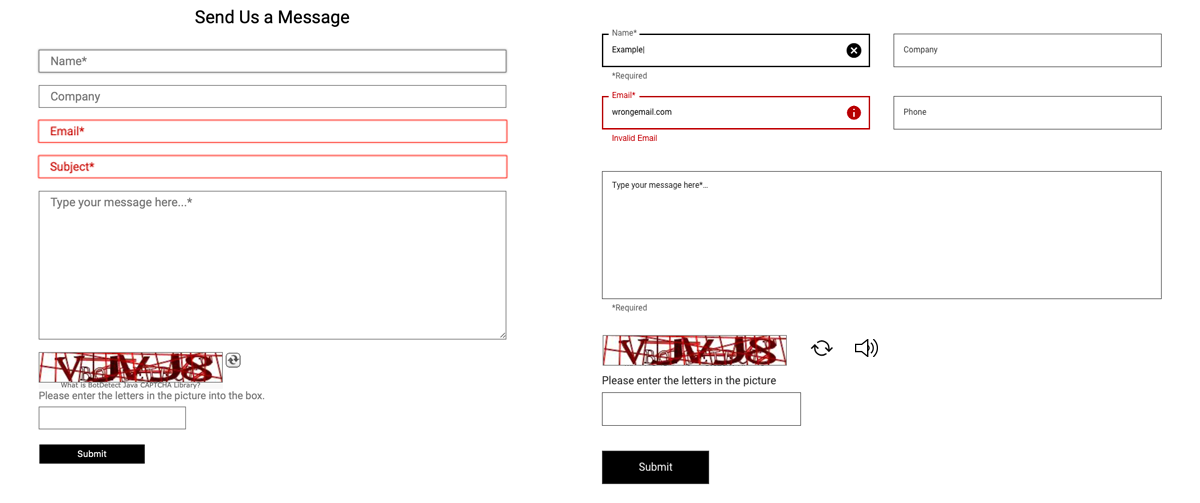
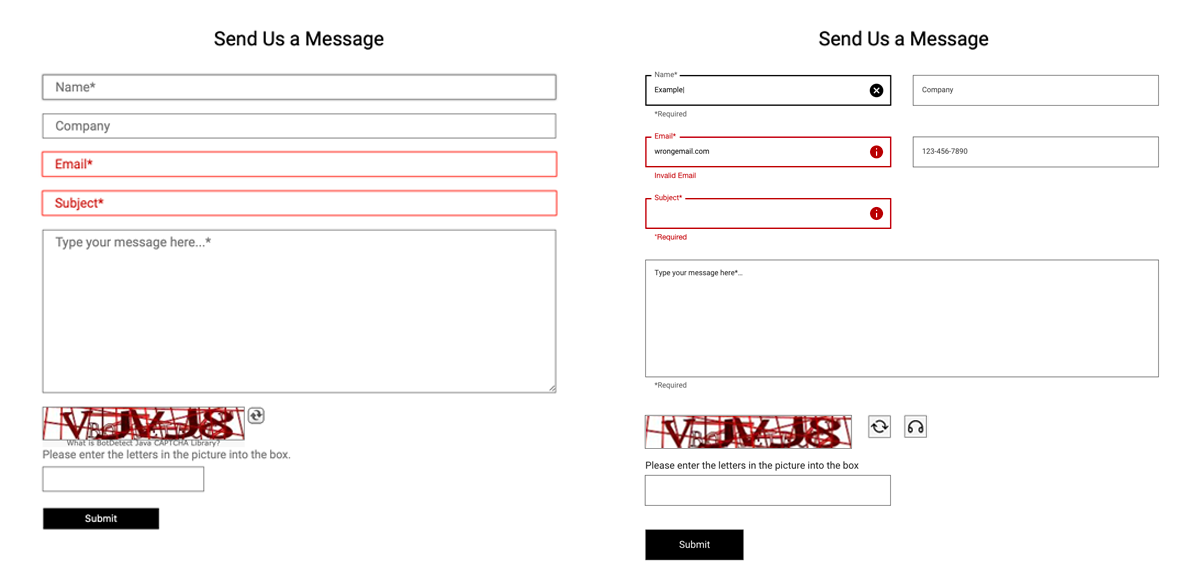
update20220702

diff --git a/schiller.html b/schiller.html
@@ -24,8 +24,8 @@
 			<div class="col-2">
 				<table>
 					<tr>
-					  <th>Role</th>
-					  <th>Tool</th>
+					  <th>Roles</th>
+					  <th>Tools</th>
 					  <th>Date</th>
 					</tr>
 					<tr>
@@ -39,6 +39,7 @@
 					  </tr>
 					  <tr>
 						<td>Videos</td>
+						<td>Adobe XD</td>
 					  </tr>
 					  <tr>
 						<td>UIUX</td>
@@ -54,32 +55,22 @@
 		</div>
 
 		<div class="text-container">
-			<p>Challenges & Goal</p>
-			<h3 style="padding-bottom: 50px; padding-top: 10px;">The existing company&apos; brand is outdated. Also, the website was not fully responsive. <br><br> The goal of the project is to build a differentiated brand and develope a stategic plan to market themselves to its high-net worth clients. Their clients are high-net worth individuals and design a fully responsive website that embrace the consistency of the new brand.</h3>
+			<p>Challenges &amp; Goal</p>
+			<h3 style="padding-bottom: 50px; padding-top: 10px;">The existing company&apos;s brand is outdated and lack of creativity, also the website was not fully responsive. Creativity is essential to standing out in a competitive market. <br><br> The goal of the project is to build a differentiated brand and maintain the brand consistency across marketing channels.</h3>
 		</div>
 
 		<div class="img-container">
-			<h4>Before &#8595;</h4>
-			<div class="fade-in"><img src="img/schiller-before.png" alt="Schiller DuCanto & Fleck" style="width:100%; height:auto;"></div>
+			<h4>Brand Identity Comparison</h4>
+			<div class="fade-in"><img src="img/schiller-comparison-identity.png" alt="Schiller Brochures" style="width:100%; height:auto;"></div>
 		</div>
 
 		<div class="text-container">
 			<p>Solution</p>
-			<h3 style="padding-bottom: 50px; padding-top: 10px;">Our team drives the firm’s strategic brand and marketing efforts, including brand identity, content creation, website and digital marketing, advertising and promotions</h3>
+			<h3 style="padding-bottom: 50px; padding-top: 10px;">Our team drives the firm&apos;s strategic brand and marketing efforts, including brand identity, content creation, website and digital marketing, advertising and promotions.</h3>
 		</div>
 
 		<div class="img-container">
-			<h4>Google Analytics</h4>
-			<div class="fade-in"><img src="img/schiller-analytics.png" alt="Schiller DuCanto & Fleck" style="width:100%; height:auto;"></div>
-		</div>
-
-		<div class="text-container">
-			<p>Research</p>
-			<h3 style="padding-bottom: 50px; padding-top: 10px;">To start off the design process we studied the existing website and find out the team page is most. Also we did a competitive analysis to find out what criteria is important for people when they are looking for investing. From Google Analytics, 75% users use desktop to view the site. After analysing user types and service offerings, we revised the existing sitemap and navigation structure of the website. Information architecture has been designed to emphasise clearer features, differentiators and to stand tall among competition.</h3>
-		</div>
-
-		<div class="img-container">
-			<h4>Ads</h4>
+			<h4>Advertising</h4>
 			<div class="fade-in"><img src="img/schiller_ads1.png" alt="Schiller Ads" style="width:100%; height:auto;"></div>
 			<div class="fade-in"><img src="img/schiller_ads2.png" alt="Schiller Ads" style="width:100%; height:auto;"></div>
 			<div class="fade-in"><img src="img/schiller_ads3.png" alt="Schiller Ads" style="width:100%; height:auto;"></div>
@@ -87,17 +78,54 @@
 		</div>
 
 		<div class="img-container">
-			<h4>Anniversary Video</h4>
-			<div class="fade-in"><img src="img/schiller-anniversary-video.png" alt="Schiller Anniversary Video" style="width:100%; height:auto;">
-			<p><a href="https://youtu.be/dPHN8k6Jh24" target="_blank">Watch Video &#8594;</a></p></div>
+			<h4>Brochures</h4>
+			<div class="fade-in"><img src="img/schiller_brochure.png" alt="Schiller Brochures" style="width:100%; height:auto;"></div>
 		</div>
 
-		<div class="text-container" style="margin-bottom:0px;"><h4 style="padding-bottom:0px;">Interview Videos</h4> </div>
-		<div class="video-container">
-			<iframe width="1200" height="500" src="https://www.youtube.com/embed/l7lPgYvVZgw" title="YouTube video player" frameborder="0" allow="accelerometer; autoplay; clipboard-write; encrypted-media; gyroscope; picture-in-picture" allowfullscreen></iframe>
+		<div class="img-container">
+			<h4>Anniversary Video (Storyboard)</h4>
+			<div class="fade-in"><img src="img/schiller-anniversary-video.png" alt="Schiller Anniversary Video" style="width:100%; height:auto;">
+			<p><a href="https://youtu.be/dPHN8k6Jh24" target="_blank">Watch anniversary video &#8594;</a></p></div>
 		</div>
-		<div class="video-container">
-			<iframe width="1200" height="500" src="https://www.youtube.com/embed/jBmzikQuVqw" title="YouTube video player" frameborder="0" allow="accelerometer; autoplay; clipboard-write; encrypted-media; gyroscope; picture-in-picture" allowfullscreen></iframe>
+
+		<div class="text-container" style="margin-bottom:0px;">
+			<h4 style="padding-bottom:0px;">Interview Videos</h4>
+		</div>
+		<div class="row">
+			<div class="col-2" style="padding-right:0px;">
+				<div class="video-container">
+					<iframe width="1200" height="500" src="https://www.youtube.com/embed/l7lPgYvVZgw" title="YouTube video player" frameborder="0" allow="accelerometer; autoplay; clipboard-write; encrypted-media; gyroscope; picture-in-picture" allowfullscreen></iframe>
+				</div>
+			</div>
+			<div class="col-2" style="padding-right:0px;">
+				<div class="video-container">
+					<iframe width="1200" height="500" src="https://www.youtube.com/embed/jBmzikQuVqw" title="YouTube video player" frameborder="0" allow="accelerometer; autoplay; clipboard-write; encrypted-media; gyroscope; picture-in-picture" allowfullscreen></iframe>
+				</div>
+			</div>
+		</div>
+
+		<div class="text-container">
+			<p>Redesign</p>
+			<h3 style="padding-bottom: 50px; padding-top: 10px;">While I was learning UIUX, I redesigned some section of the website that did not meet the guidelines that support the best practices of UX/UI design.</h3>
+		</div>
+
+		<div class="img-container">
+			<h4>Contact Form Comparision</h4>
+			<div class="fade-in"><img src="img/schiller-usability-form.png" alt="Contact Form Comparision" style="width:100%; height:auto;"></div>
+		</div>
+
+		<div class="text-container">
+			<p>Problem &amp; Solution</p>
+			<h3 style="padding-bottom: 50px; padding-top: 10px;">I learned from the website&apos;s analytics that clickable images on Our Client page had a low click-rate. The original design was not intuitive, and it was not clear that images were clickable. To address this issue, I would have displayed the text of the first image and added a highlighted line underneath it.</h3>
+		</div>
+
+		<div class="img-container">
+			<h4>Our Client Page Comparision</h4>
+			<div class="fade-in"><img src="img/schiller-usability-ourclient.png" alt="Our Client Page Comparision" style="width:100%; height:auto;"></div>
+		</div>
+		<div class="text-container">
+			<p>Revised Contact Us Form</p>
+			<h3 style="padding-bottom: 50px; padding-top: 10px;">I learned from the website&apos;s analytics that clickable images on Our Client page had a low click-rate. The original design was not intuitive, and it was not clear that images were clickable. To address this issue, I would have displayed the text of the first image and added a highlighted line underneath it.</h3>
 		</div>
 
 	

diff --git a/apogem.html b/apogem.html
@@ -20,7 +20,7 @@
 		<div class="text-container">
 			<h3 style="padding-bottom: 50px;">Apogem Capital is a leading alternatives investor, with decades of experience investing in the middle market.</h3>
 			<span class="row">
-			<p class="col-2"><a>View website &#8594;</a></p>
+			<p class="col-2"><a href="https://apogemcapital.com" target="_blank">View website &#8594;</a></p>
 			<div class="col-2">
 				<table>
 					<tr>
@@ -47,7 +47,7 @@
 		</div>
 
 		<div class="text-container">
-			<p>Challenges & Goal</p>
+			<p>Challenges &amp; Goal</p>
 			<h3 style="padding-bottom: 50px; padding-top: 10px;">Time constraint and insufficient access to website data were the most challenging aspects of the project. There were also too many people responsible for making decisions on the client&apos;s end, which caused inefficiency and unnecessary bureaucracy.<br><br> The goal of the project was to design a responsive and user-friendly website that embraced the consistency of the firm&apos;s new branding, while keeping the limited timeframe provided by the client.</h3>
 		</div>
 
@@ -57,7 +57,7 @@
 		</div>
 
 		<div class="img-container">
-			<h4>Google Analytics & Competitor Analysis</h4>
+			<h4>Google Analytics &amp; Competitor Analysis</h4>
 			<div class="fade-in"><img src="img/research.png" alt="Apogem Research" style="width:100%; height:auto;"></div>
 		</div>
 

diff --git a/index.html b/index.html
@@ -18,7 +18,7 @@
 		
 
 		<div class="text-container">
-			<h1 style="padding-bottom: 0px; padding-top:50px;" class="text-animation">Hi, I'm Jiarong.</h1>
+			<h1 style="padding-bottom: 10px; padding-top:50px;" class="text-animation">Hi, I'm Jiarong.</h1>
 			<h2 style="padding-bottom: 50px;">I'm a Chicago based designer, focusing on visual and UI/UX design.</h2>
 			<p><a href="about.html">Learn more &#8594;</a></p>
 		</div>
@@ -57,15 +57,15 @@
 					<p style="color:#999">Developing and launching a unique brand for a contemporary art gallery</p>
 				</div>
 			</div>
-<!--
+
 			<div class="img-container">
-				<div class="fade-in"><img src="img/SchillerDuCanto_Responsive.png" alt="Schiller DuCanto & Fleck" style="width:100%; height:auto;"></div>
+				<div class="fade-in"><img src="img/SchillerDuCanto_Responsive.png" alt="Schiller DuCanto &amp; Fleck" style="width:100%; height:auto;"></div>
 				<div style="margin-top:20px;" class="fade-in">
-					<p style="padding-bottom: 10px; "><a href="schiller.html">Schiller DuCanto & Fleck &#8594;</a></p>
+					<p style="padding-bottom: 10px; "><a href="schiller.html">Schiller DuCanto &amp; Fleck &#8594;</a></p>
 					<p style="color:#999">Identity and responsible website for a family law firm</p>
 				</div>
 			</div>
-			-->
+
 
 		</section>
 		

diff --git a/soluna.html b/soluna.html
@@ -16,7 +16,6 @@
 			<span style="float: right;"><a href="index.html"><img src="img/logo-jl.svg" alt="jl-logo" height="30px"></a></span>
 		</nav>
 		
-
 		<div class="text-container">
 			<h3 style="padding-bottom: 50px;">Soluna Living is a transformative idea based on the philosophy of living a balanced life. Soluna Living commissions and sells unique contemporary objects created by a selection of the finest craft artists and designers across Asia.</h3>
 			<span class="row">
@@ -24,8 +23,8 @@
 			<div class="col-2">
 				<table>
 					<tr>
-					  <th>Role</th>
-					  <th>Tool</th>
+					  <th>Roles</th>
+					  <th>Tools</th>
 					  <th>Date</th>
 					</tr>
 					<tr>
@@ -52,7 +51,7 @@
 		</div>
 
 		<div class="text-container">
-			<p>Challenges & Goal</p>
+			<p>Challenges &amp; Goal</p>
 			<h3 style="padding-bottom: 50px; padding-top: 10px;">We started working with Soluna when they were no more than a name and a mission. There was no established brand and marketing strategy from which to draw ideas. <br><br> We were aiming to develop a unique and differentiated brand based on their mission and values.</h3>
 		</div>
 

diff --git a/styles.css b/styles.css
@@ -73,7 +73,7 @@ a:hover::before {
 	padding-bottom: 56.25%; 
 	padding-top: 30px; 
 	height: 0; 
-	overflow: hidden; 
+	overflow: hidden;
 	margin:10px 20px;
 }
 
@@ -82,7 +82,8 @@ a:hover::before {
 	top: 0; 
 	left: 0; 
 	width: 100%; 
-	height: 100%; }
+	height: 100%; 
+}
 
 /* fonts */
 h1{
@@ -136,7 +137,7 @@ h5{
 	overflow: hidden;
 	width: 100%;
 	animation: animtext 2s steps(80, end); 
-   transition: all cubic-bezier(0.1, 0.7, 1.0, 0.1);
+	transition: all cubic-bezier(0.1, 0.7, 1.0, 0.1);
 }
 
 @keyframes animtext { 
@@ -238,6 +239,10 @@ footer p a::before {
 		font-size:18px;
 		line-height: 24px;
 	}
+	.video-container iframe {
+		width: 100%; 
+		height: 100%; 
+	}
 	
 }
 
@@ -270,7 +275,7 @@ header {
   
   .t {
 	animation-name: titleflip;
-	animation: titleflip 5s ease-in-out infinite;
+	animation: titleflip 6s ease-in-out infinite;
 	  }
   
   @-webkit-keyframes titleflip {

diff --git a/oneonone.html b/oneonone.html
@@ -24,8 +24,8 @@
 			<div class="col-2">
 				<table>
 					<tr>
-					  <th>Role</th>
-					  <th>Tool</th>
+					  <th>Roles</th>
+					  <th>Tools</th>
 					  <th>Date</th>
 					</tr>
 					<tr>
@@ -47,7 +47,7 @@
 		</div>
 
 		<div class="text-container">
-			<p>Challenges & Goal</p>
+			<p>Challenges &amp; Goal</p>
 			<h3 style="padding-bottom: 50px; padding-top: 10px;">From its inception, the organization lacked formal branding and a style-guide. The name “The Hope Works Community Development” was too broad and confusing. The website was outdated and not mobile-friendly. <br><br>Our goals were to establish an effective and trusted brand that aligned with the company&apos;s mission and values. We also aimed to define a visual direction and deliver impactful messages to its clients, donors and partners.</h3>
 		</div>
 

diff --git a/about.html b/about.html
@@ -18,7 +18,7 @@
 		
 
 		<div class="text-container">
-			<h1 style="padding-bottom: 30px;">I'm a visual designer with over six years of work experience. Self-improvement via the acquisition of new skills is my strong suit.</h1>
+			<h1 style="padding-bottom: 30px;">I'm a visual designer with over six years of work experience. Self-improvement is my strong suit.</h1>
 			<!--<p>Resume &#8594;</p>-->
 		</div>
 

diff --git a/freshlybaked.html b/freshlybaked.html
@@ -173,7 +173,7 @@
 
 
 		<div class="text-container">
-			<p><a href="index.html" target="_blank">Back to home &#8594;</a></p>
+			<p><a href="index.html">Back to home &#8594;</a></p>
 		</div>
 
 		
